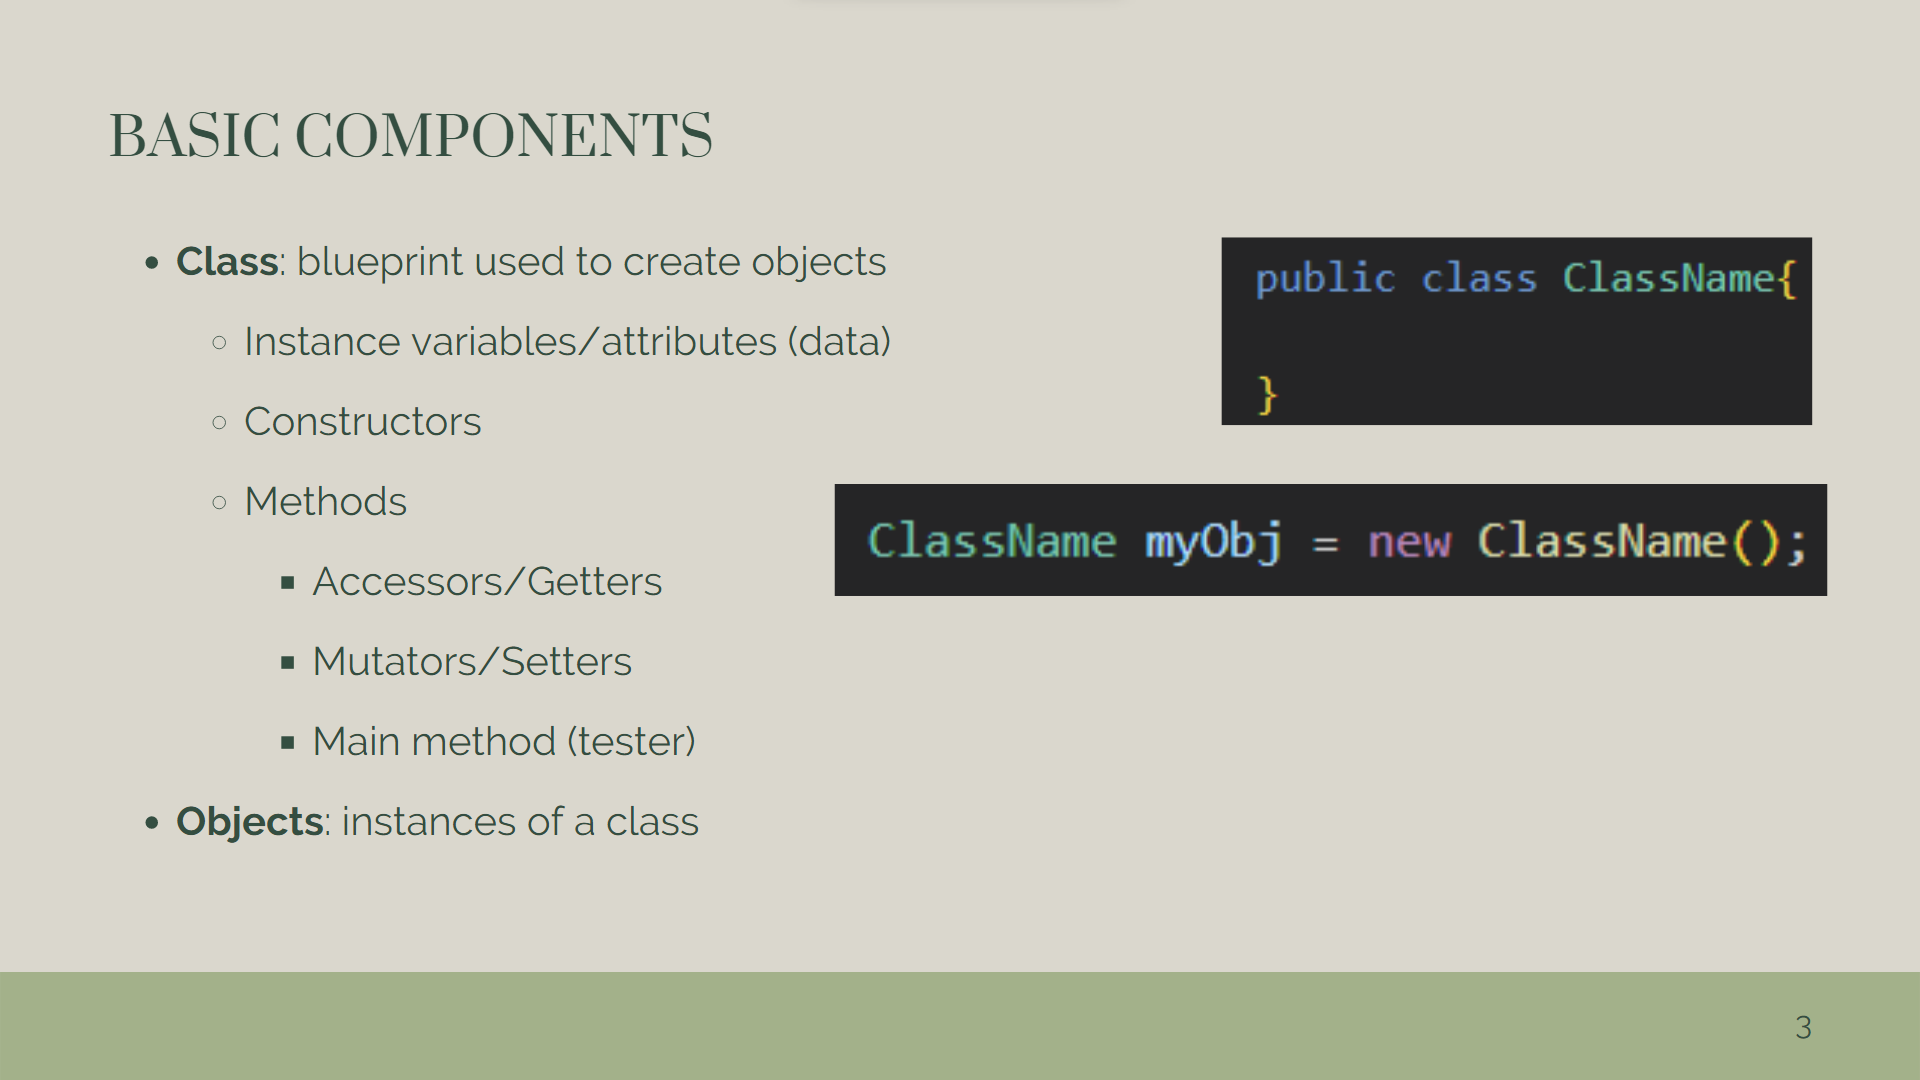
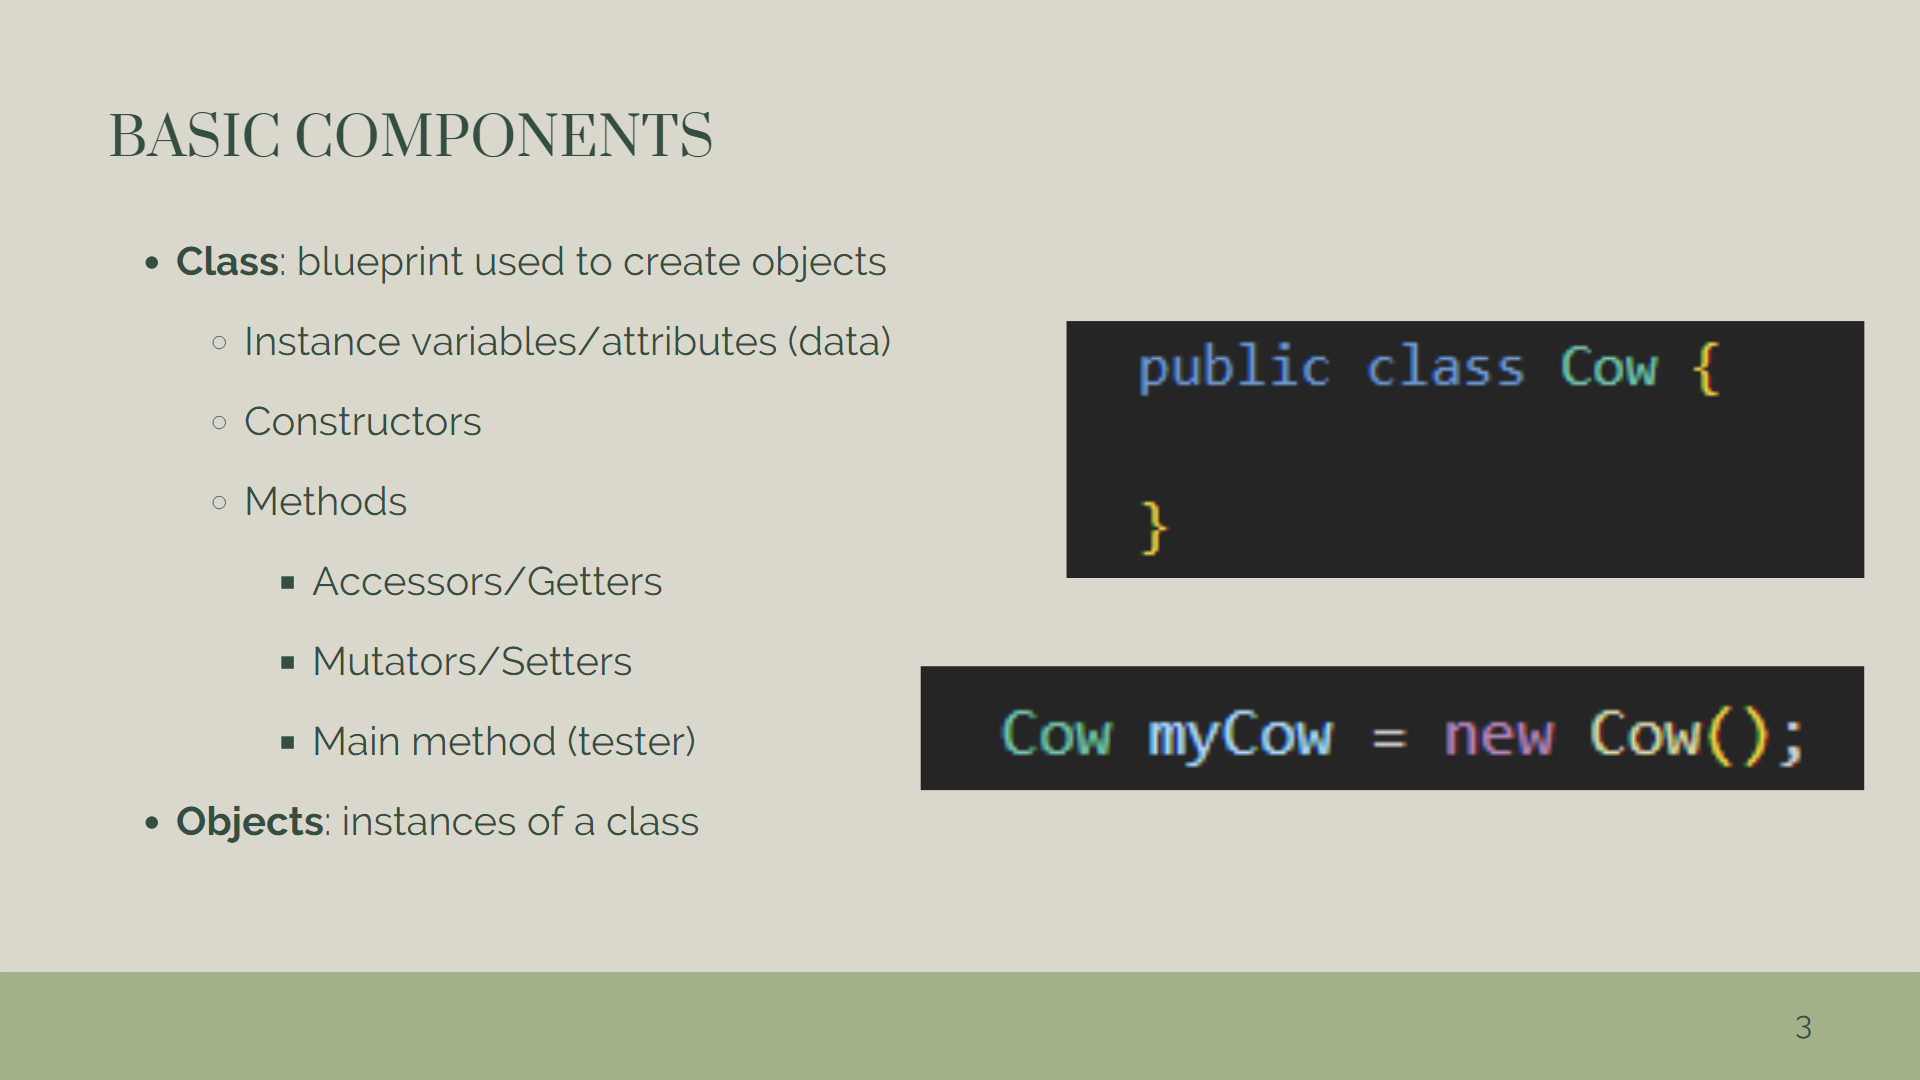
deploy: 81a157128139312467619d63bbabd47a8c935b57

Changed region(s): [[0.4375, 0.2139, 0.9688, 0.55], [0.4688, 0.6111, 0.9688, 0.7333]]

diff --git a/2022/10/03/writingClasses_lesson.html b/2022/10/03/writingClasses_lesson.html
@@ -77,7 +77,7 @@ window.onload = wrap_img;
        • <span class="read-time" title="Estimated read time">
     
     
-      2 min read
+      3 min read
     
 </span></p>
 
@@ -115,6 +115,8 @@ window.onload = wrap_img;
 
   <div class="post-content e-content" itemprop="articleBody">
     <ul id="toc" class="section-nav">
+<li class="toc-entry toc-h1"><a href="#Lesson-Purpose">Lesson Purpose </a></li>
+<li class="toc-entry toc-h1"><a href="#Hack-1">Hack 1 </a></li>
 <li class="toc-entry toc-h1"><a href="#5.1-Anatomy-of-a-Class">5.1 Anatomy of a Class </a>
 <ul>
 <li class="toc-entry toc-h2"><a href="#Access-Modifiers">Access Modifiers </a></li>
@@ -126,14 +128,17 @@ window.onload = wrap_img;
 </li>
 </ul>
 </li>
-<li class="toc-entry toc-h1"><a href="#5.2-Constructors">5.2 Constructors </a></li>
+<li class="toc-entry toc-h1"><a href="#5.2-Constructors">5.2 Constructors </a>
+<ul>
+<li class="toc-entry toc-h2"><a href="#Hack-2">Hack 2 </a></li>
+</ul>
+</li>
 <li class="toc-entry toc-h1"><a href="#5.3-Comments">5.3 Comments </a>
 <ul>
 <li class="toc-entry toc-h2"><a href="#Types">Types </a></li>
 <li class="toc-entry toc-h2"><a href="#Other-Vocab">Other Vocab </a></li>
 </ul>
 </li>
-<li class="toc-entry toc-h1"><a href="#Coding-Challenge">Coding Challenge </a></li>
 </ul><!--
 #################################################
 ### THIS FILE WAS AUTOGENERATED! DO NOT EDIT! ###
@@ -154,7 +159,50 @@ window.onload = wrap_img;
 <div class="cell border-box-sizing text_cell rendered">
 <div class="inner_cell">
 <div class="text_cell_render border-box-sizing rendered_html">
+<h1 id="Lesson-Purpose">
+<a class="anchor" href="#Lesson-Purpose" aria-hidden="true"><span class="octicon octicon-link"></span></a>Lesson Purpose<a class="anchor-link" href="#Lesson-Purpose"> </a>
+</h1>
+<p>Understand how to write classes with attributes and methods (Java OOP)</p>
+
+</div>
+</div>
+</div>
+<div class="cell border-box-sizing text_cell rendered">
+<div class="inner_cell">
+<div class="text_cell_render border-box-sizing rendered_html">
 <p><img src="/blog_juiceVRLD/images/copied_from_nb/../images/s2.png" alt=""></p>
+
+</div>
+</div>
+</div>
+<div class="cell border-box-sizing text_cell rendered">
+<div class="inner_cell">
+<div class="text_cell_render border-box-sizing rendered_html">
+<h1 id="Hack-1">
+<a class="anchor" href="#Hack-1" aria-hidden="true"><span class="octicon octicon-link"></span></a>Hack 1<a class="anchor-link" href="#Hack-1"> </a>
+</h1>
+</div>
+</div>
+</div>
+<div class="cell border-box-sizing text_cell rendered">
+<div class="inner_cell">
+<div class="text_cell_render border-box-sizing rendered_html">
+<ul>
+<li>
+<p>Write the first part of the <code>Cow</code> class, with the body consisting of the instance variables and constructors</p>
+</li>
+<li>
+<p>If the "Output produced" cell is blank, there is no output produced from the code segment</p>
+</li>
+</ul>
+
+</div>
+</div>
+</div>
+<div class="cell border-box-sizing text_cell rendered">
+<div class="inner_cell">
+<div class="text_cell_render border-box-sizing rendered_html">
+<p><img src="/blog_juiceVRLD/images/copied_from_nb/../images/s9.png" alt=""></p>
 
 </div>
 </div>
@@ -183,7 +231,9 @@ window.onload = wrap_img;
 
 <div class="inner_cell">
     <div class="input_area">
-<div class=" highlight hl-java"><pre><span></span><span class="kd">public</span> <span class="kd">class</span> <span class="nc">Snack</span> <span class="p">{</span> <span class="c1">// class name always starts with capital letter</span>
+<div class=" highlight hl-java"><pre><span></span><span class="c1">// Basic Java Class</span>
+
+<span class="kd">public</span> <span class="kd">class</span> <span class="nc">Snack</span> <span class="p">{</span> <span class="c1">// class name always starts with capital letter</span>
 
     <span class="cm">/*</span>
 <span class="cm">     * Instance variables</span>
@@ -508,6 +558,22 @@ Using Two Constructor: Oreos
 <div class="cell border-box-sizing text_cell rendered">
 <div class="inner_cell">
 <div class="text_cell_render border-box-sizing rendered_html">
+<h2 id="Hack-2">
+<a class="anchor" href="#Hack-2" aria-hidden="true"><span class="octicon octicon-link"></span></a>Hack 2<a class="anchor-link" href="#Hack-2"> </a>
+</h2>
+<ul>
+<li>Write a default constructor and all-argument constructor for the <code>Cow</code> class<ul>
+<li>Hint: all-argument constructor should have 3 parameters</li>
+</ul>
+</li>
+</ul>
+
+</div>
+</div>
+</div>
+<div class="cell border-box-sizing text_cell rendered">
+<div class="inner_cell">
+<div class="text_cell_render border-box-sizing rendered_html">
 <h1 id="5.3-Comments">
 <a class="anchor" href="#5.3-Comments" aria-hidden="true"><span class="octicon octicon-link"></span></a>5.3 Comments<a class="anchor-link" href="#5.3-Comments"> </a>
 </h1>
@@ -547,33 +613,6 @@ Using Two Constructor: Oreos
 </ul>
 </li>
 </ul>
-
-</div>
-</div>
-</div>
-<div class="cell border-box-sizing text_cell rendered">
-<div class="inner_cell">
-<div class="text_cell_render border-box-sizing rendered_html">
-<h1 id="Coding-Challenge">
-<a class="anchor" href="#Coding-Challenge" aria-hidden="true"><span class="octicon octicon-link"></span></a>Coding Challenge<a class="anchor-link" href="#Coding-Challenge"> </a>
-</h1>
-</div>
-</div>
-</div>
-<div class="cell border-box-sizing text_cell rendered">
-<div class="inner_cell">
-<div class="text_cell_render border-box-sizing rendered_html">
-<ul>
-<li>Write the first part of the <code>Cow</code> class, with the body consisting of the instance variables and constructors</li>
-</ul>
-
-</div>
-</div>
-</div>
-<div class="cell border-box-sizing text_cell rendered">
-<div class="inner_cell">
-<div class="text_cell_render border-box-sizing rendered_html">
-<p><img src="/blog_juiceVRLD/images/copied_from_nb/../images/s9.png" alt=""></p>
 
 </div>
 </div>
